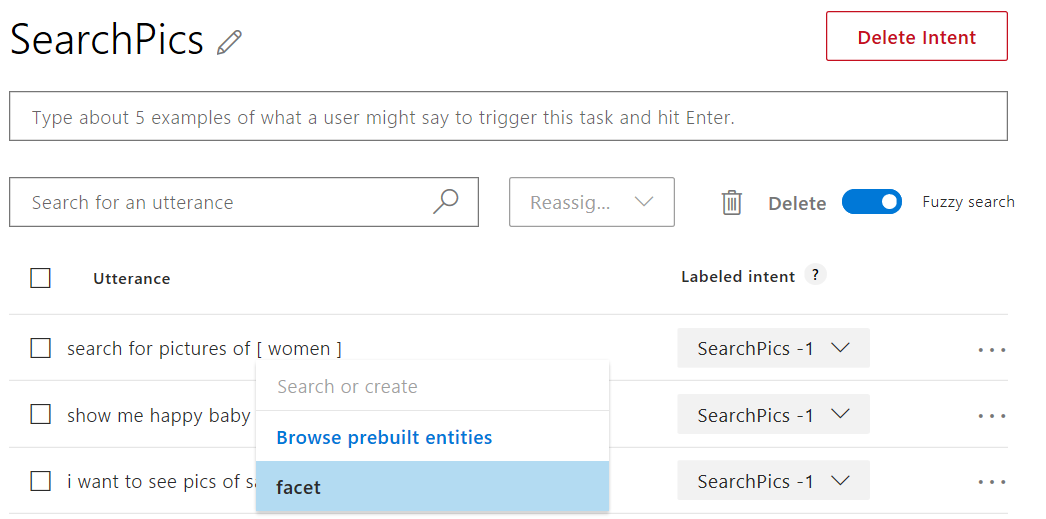
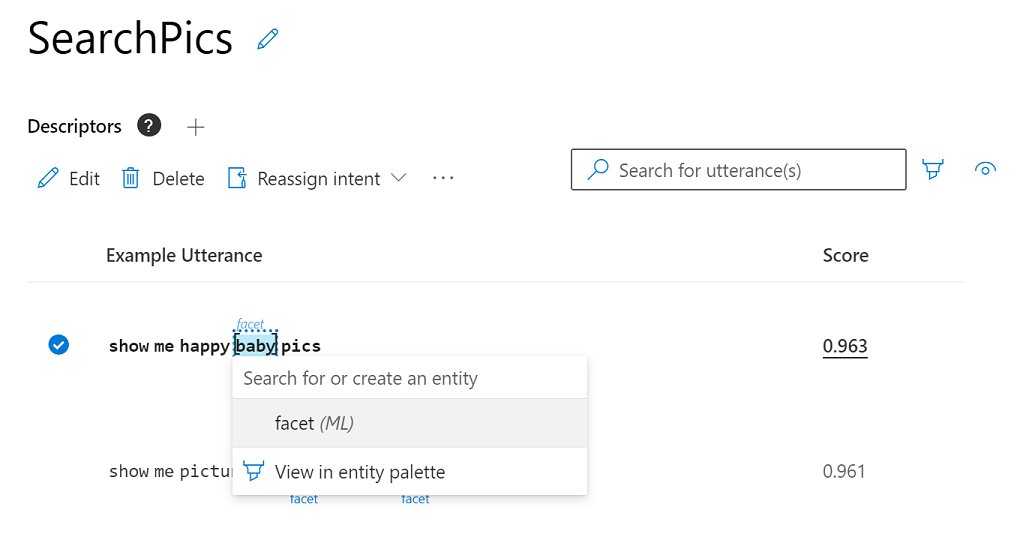
adding lab 6

diff --git a/Lab06/README.md b/Lab06/README.md
@@ -1,0 +1,214 @@
+# Lab 6: Implementing the LUIS model
+
+This hands-on lab guides you through creating a model to enhance the Natural Language Processing capabilities of your applications, using Microsoft's Language Understanding Intelligent Service (LUIS).
+
+## Introduction
+
+In this lab, you will build, train and publish a LUIS model to help your bot (which will be created in a future lab) communicate effectively with human users.
+
+> **Note** In this lab, we will only be creating the LUIS model that you will use in a future lab to build a more intelligent bot.
+
+The LUIS functionality and functionality has already been covered in the workshop; for a refresher on LUIS, [read more](https://docs.microsoft.com/en-us/azure/cognitive-services/LUIS/Home).
+
+Now that we know what LUIS is, we'll want to plan our LUIS app. We already created a basic bot ("PictureBot") that responds to messages containing certain text. We will need to create intents that trigger the different actions that our bot can do, and create entities that require different actions. For example, an intent for our PictureBot may be "OrderPic" and it triggers the bot to provide an appropriate response.
+
+For example, in the case of Search (not implemented here), our PictureBot intent may be "SearchPics" and it triggers Azure Cognitive Search service to look for photos, which requires a "facet" entity to know what to search for.  You can see more examples for planning your app [here](https://docs.microsoft.com/en-us/azure/cognitive-services/LUIS/plan-your-app).
+
+Once we've thought out our app, we are ready to [build and train it](https://docs.microsoft.com/en-us/azure/cognitive-services/LUIS/luis-get-started-create-app).
+
+As a review, these are the steps you will generally take when creating LUIS applications:
+
+  1. [Add intents](https://docs.microsoft.com/en-us/azure/cognitive-services/LUIS/add-intents)
+  2. [Add utterances](https://docs.microsoft.com/en-us/azure/cognitive-services/LUIS/add-example-utterances)
+  3. [Add entities](https://docs.microsoft.com/en-us/azure/cognitive-services/LUIS/add-entities)
+  4. [Improve performance using phrase lists](https://docs.microsoft.com/en-us/azure/cognitive-services/LUIS/add-features) and [patterns](https://docs.microsoft.com/en-us/azure/cognitive-services/LUIS/luis-how-to-model-intent-pattern)
+  5. [Train and test](https://docs.microsoft.com/en-us/azure/cognitive-services/LUIS/train-test)
+  6. [Review endpoint utterances](https://docs.microsoft.com/en-us/azure/cognitive-services/LUIS/label-suggested-utterances)
+  7. [Publish](https://docs.microsoft.com/en-us/azure/cognitive-services/LUIS/publishapp)
+
+## Lab 6.0: Creating the LUIS service in the portal (optional)
+
+Creating a LUIS service in the portal is optional, as LUIS provides you with a "starter key" that you can use for the labs. However, if you want to see how to create a free or paid service in the portal, you can follow the steps below.  
+
+> **Note** If you ran the pre-req ARM Template, you will already have a cognitive services resource that included the Language Understanding APIs.
+
+1. Open the [Azure Portal](https://portal.azure.com)
+
+1. Select **Create a resource**
+
+1. Enter **Language Understanding** in the search box and choose **Language Understanding**
+
+1. Select **Create**
+
+1. For the name, type **{YOURINIT}luisbot**
+
+1. Select your subscription and and location similar to your resource group
+
+1. For the pricing tier, select **F0**
+
+1. Select your resources group
+
+1. For the runtime location, select a location similar to your resource group
+
+1. For the runtime pricing, select **F0**
+
+1. Select **Create**
+
+**Note** The Luis AI web site does not allow you to control or publish your Azure based cognitive services resources.  You will need to call the APIs in order to train and publish them.
+
+## Lab 6.1: Adding intelligence to your applications with LUIS
+
+Let's look at how we can use LUIS to add some natural language capabilities. LUIS allows you to map natural language utterances (words/phrases/sentences the user might say when talking to the bot) to intents (tasks or actions the user wants to perform). For our application, we might have several intents: finding pictures, sharing pictures, and ordering prints of pictures, for example. We can give a few example utterances as ways to ask for each of these things, and LUIS will map additional new utterances to each intent based on what it has learned.
+
+> **Warning**: Though Azure services use IE as the default browser, we do not recommend it for LUIS. You should be able to use Chrome or Firefox for all of the labs. Alternatively, you can download either [Microsoft Edge](https://www.microsoft.com/en-us/download/details.aspx?id=48126) or [Google Chrome](https://www.google.com/intl/en/chrome/).
+
+1. Navigate to [https://www.luis.ai](https://www.luis.ai) (**unless you are located in Europe or Australia***). We will create a new LUIS app to support our bot.
+
+> **Note** If you created a key in a **Europe** region, you will need to create your application at [https://eu.luis.ai/](https://eu.luis.ai/). If you created a key in an **Australia** region, you will need to create your application at [https://au.luis.ai/](https://au.luis.ai/). You can read more about the LUIS publishing regions [here](https://docs.microsoft.com/en-us/azure/cognitive-services/luis/luis-reference-regions).
+
+1. Sign in using your Organization or Microsoft account. This should be the same account that you used to create the LUIS key in the previous section.
+
+1. Select **Create a LUIS app now**. You should be redirected to a list of your LUIS applications.  If prompted, select **Migrate Later**.  
+
+1. If this is your first time, you will be asked to agree with service terms of use and select your county.
+
+- On next step you need to chose recommended option and link your Azure account with LUIS.
+- Finally confirm your settings and you will be forwarded to the LUIS App page.
+
+> **Note**: Notice that there is also an "Import App" next to the "New App" button on [the current page](https://www.luis.ai/applications).  After creating your LUIS application, you have the ability to export the entire app as JSON and check it into source control.  This is a recommended best practice, so you can version your LUIS models as you version your code.  An exported LUIS app may be re-imported using that "Import App" button.  If you fall behind during the lab and want to cheat, you can select the "Import App" button and import the [LUIS model](./code/LUIS/PictureBotLuisModel.json).
+
+1. From the main page, select the **Create new app** button
+
+1. Type a name, and select **Done**.  Close the "How to create an effective LUIS app" dialog.
+
+![LUIS New App](../images//LuisNewApp.png)
+
+1. In the top navigation, select the **BUILD** link.  Notice there is one intent called "None".  Random utterances that don't map to any of your intents may be mapped to "None".
+
+![LUIS Dashboard](../images//LuisCreateIntent.png)
+
+We want our bot to be able to do the following things:
+
+- Search/find pictures
+- Share pictures on social media
+- Order prints of pictures
+- Greet the user (although this can also be done other ways, as we will see later)
+
+Let's create intents for the user requesting each of these.  
+
+1. Select the **Create new intent** button.
+
+1. Name the first intent **Greeting** and select **Done**.  
+
+1. Give several examples of things the user might say when greeting the bot, pressing "Enter" after each one.
+
+![LUIS Greeting Intent](../images//LuisGreetingIntent.png)
+
+Let's see how to create an entity.  When the user requests to search the pictures, they may specify what they are looking for.  Let's capture that in an entity.
+
+1. Select on **Entities** in the left-hand column and then select **Create new entity**.  
+
+1. Give it an entity name **facet**
+
+1. For the entity type select ["Simple"](https://docs.microsoft.com/en-us/azure/cognitive-services/LUIS/luis-concept-entity-types).  
+
+1. Select **Done**.
+
+![Add Facet Entity](../images//LuisCreateEntity.png)
+
+1. Select **Intents** in the left-hand sidebar and then click the **Create new intent** button.  
+
+1. Give it an intent name of **SearchPics** and then click **Done**.
+
+Just as we did for Greetings, let's add some sample utterances (words/phrases/sentences the user might say when talking to the bot).  People might search for pictures in many ways.  Feel free to use some of the utterances below, and add your own wording for how you would ask a bot to search for pictures.
+
+- Find outdoor pics
+- Are there pictures of a train?
+- Find pictures of food.
+- Search for photos of kids playing
+- Show me beach pics
+- Find dog photos
+- Show me pictures of men wearing glasses
+- Show me happy baby pics
+
+Once we have some utterances, we have to teach LUIS how to pick out the **search topic** as the "facet" entity. Whatever the "facet" entity picks up is what will be searched.
+
+1. Hover and click the word (or click consecutive words to select a group of words) and then select the "facet" entity.
+
+![Labeling Entity](../images//LuisFacet.png)
+
+So your utterances may become something like this when facets are labeled:
+
+![Add Facet Entity](../images//SearchPicsIntentAfter.png)
+
+>**Note** This workshop does not include Azure Cognitive Search, however, this functionality has been left in for the sake of demonstration.
+
+1. Select **Intents** in the left sidebar and add two more intents:
+
+- Name one intent **"SharePic"**.  This might be identified by utterances like:
+
+  - Share this pic
+  - Can you tweet that?
+  - Post to Twitter
+
+- Create another intent named **"OrderPic"**.  This could be communicated with utterances like:
+
+  - Print this picture
+  - I would like to order prints
+  - Can I get an 8x10 of that one
+  - Order wallets
+
+When choosing utterances, it can be helpful to use a combination of questions, commands, and "I would like to..." formats.
+
+1. Finally add some sample utterances to the "None" intent. This helps LUIS label when things are outside the scope of your application. Add things like "I'm hungry for pizza", "Search videos", etc. You should have about 10-15% of your app's utterances within the None intent.
+
+## Lab 6.2: Training the LUIS model
+
+We are now ready to train our model.
+
+1. Select **Train** in the top right bar.  This builds a model to do utterance --> intent mapping with the training data you've provided. Training is not always immediate. Sometimes, it gets queued and can take several minutes.
+
+1. Select **MANAGE** in the top bar. You'll have several options on the left side of the window (Application Information, Keys and Endpoints, Publish Settings, Versions, Collaborators). You can read more about the various publish options [here](https://docs.microsoft.com/en-us/azure/cognitive-services/LUIS/PublishApp).
+
+1. Select **Azure resources**, you can use the keys here for your LUIS integration later or simply use the keys from the Azure Portal
+
+1. In the top bar, click **Publish**. You'll have the option to publish to your "Production" or "Staging" endpoint.
+
+1. Select **Production**, and [read about the reasons for the two endpoints](https://docs.microsoft.com/en-us/azure/cognitive-services/luis/luis-concept-version).
+
+1. Finally, select **Publish**.
+
+![Publish LUIS App](../images//LuisPublish.png)
+
+Publishing creates an endpoint to call the LUIS model.  The URL will be displayed, which will be explained in a later lab.
+
+1. Select **Application Information**, copy the **Application ID**.
+
+1. Select **Azure Resources**, copy the Key and the Endpoint URL.
+
+**Note** We won't use the whole url, you will only need the **https://{region}.api.cognitive.microsoft.com** part
+
+1. Select **Test** in the top right bar. Try typing a few utterances and see the intents returned. Familiarize yourself with [interactive testing](https://docs.microsoft.com/en-us/azure/cognitive-services/LUIS/Train-Test#interactive-testing) and [reviewing endpoint utterances](https://docs.microsoft.com/en-us/azure/cognitive-services/LUIS/luis-how-to-review-endoint-utt) as you may want to do this now or in a future lab.
+
+One quick example is shown below. I have noticed that my model incorrectly assigned "send me a swimming photo" as SharePic, when it should be SearchPics. I reassigned the intent.
+
+![Test LUIS](../images//ReassignIntent.png)
+
+Now I need to retrain my app by selecting the Train button. I then tested the same utterance and compared the results between my recently trained and previously published model. Remember, you'll have to republish your model to see updates in the application that uses the model.
+
+![Reassign Intent](../images//ReassignIntentAfter.png)
+
+You can also [test your published endpoint in a browser](https://docs.microsoft.com/en-us/azure/cognitive-services/LUIS/PublishApp#test-your-published-endpoint-in-a-browser). Copy the Endpoint URL. To open this URL in your browser, set the URL parameter `&q=` to your test query. For example, append `Find pictures of dogs` to your URL, and then press Enter. The browser displays the JSON response of your HTTP endpoint.
+
+## Going further
+
+If you still have time, spend time exploring the www.luis.ai site. Select "Prebuilt domains" and see [what is already available for you](https://docs.microsoft.com/en-us/azure/cognitive-services/luis/luis-reference-prebuilt-domains). You can also review some of the [other features](https://docs.microsoft.com/en-us/azure/cognitive-services/luis/luis-concept-feature) and [patterns](https://docs.microsoft.com/en-us/azure/cognitive-services/luis/luis-concept-patterns)
+, and check out the [BotBuilder-tools](https://github.com/Microsoft/botbuilder-tools) for creating LUIS models, managing LUIS models, simulating conversations, and more. Later, you may also be interested in [another course that includes how to design LUIS schema](https://aka.ms/daaia).
+
+## Extra Credit
+
+If you wish to attempt to create a LUIS model including Azure Cognitive Search, follow the training on [LUIS models including search](https://github.com/Azure/LearnAI-Bootcamp/tree/master/lab01.5-luis).
+
+## Next Steps
+
+- [Lab 07-01: Integrate LUIS](../Lab07/README.md)

diff --git a/Lab05/README.md b/Lab05/README.md
@@ -1,0 +1,123 @@
+# Lab 5: Creating a Customized QnA Maker Bot
+
+## Introduction
+
+In this lab we will explore the QnA Maker for creating bots that connect to a pre-trained knowledge base.  Using QnAMaker, you can upload documents or point to web pages and have it pre-populate a knowledge base that can feed a simple bot for common uses such as frequently asked questions.
+
+### Time to complete: 30 min
+
+## Lab 5.2: Create a KnowledgeBase
+
+1. Open the [QnA Maker site](https://qnamaker.ai)
+
+1. In the top right, select **Sign in**.  Login using the Azure credentials for your new QnA Maker resource
+
+1. In the top navigation area, select **Create a knowledge base**
+
+1. From **STEP 1** click on the button **create new QnA service** you will be redirected to the azure portal
+
+1. Type a name
+
+1. Select the **S0** tier for the resource pricing tier.  We aren't using the free tier because we will upload files that are larger than 1MB later.
+
+1. Select your resource group
+
+1. For the search pricing tier, select the **F** tier
+
+1. Enter an app name, it must be unique
+
+1. Select **Create**.  This will create the following resources in your resource group:
+
+- App Service Plan
+- App Service
+- Application Insights
+- Search Service
+- Cognitive Service instance of type QnAMaker
+
+1. You have to wait until provisioning finished. Return back to the QnA portal to your KB.
+
+1. On **STEP 2** click on "Refresh" button.
+
+1. Select your Azure AD and Subscription tied to your QnA Maker resource, then select your newly created QnA Maker resource and your target language.
+
+
+1. On **STEP 3**  for the name, type **Microsoft FAQs**
+
+1. For the file, select **Add file**, browse to the **code/surface-pro-4-user-guide-EN.pdf** file
+
+1. For the file, select **Add file**, browse to the **code/Manage Azure Blob Storage** file
+
+> **Note** You can find out more about the supported file types and data sources [here](https://docs.microsoft.com/en-us/azure/cognitive-services/qnamaker/concepts/data-sources-supported)
+
+1. For the **Chit-chat**, select **Witty**
+
+1. Select **Create your KB**
+
+> **NOTE** This can take a few minutes.
+
+## Lab 5.2: Publish and Test your Knowledge base
+
+1. Review the knowledge base QnA pairs, you should see ~200+ different pairs based on the two documents we fed it
+
+1. In the top menu, select **PUBLISH**.  
+
+1. On the publish page, select **Publish**.  Once the service is published, select the **Create Bot** button on the success page
+
+1. If prompted, login as the account tied to your lab resource group.
+
+1. On the bot service creation page, fix any naming errors, then select **Create**.
+
+> **Note**  Recent change in Azure requires dashes ("-") be removed from some resource names
+
+1. Once the bot resource is created, navigate to the new **Web App Bot**, then select **Test in Web Chat**
+
+1. Ask the bot any questions related to a Surface Pro 4 or managing Azure Blog Storage:
+
+- How long does it take to charge the battery?
+- What is a blob?
+
+1. Ask it some questions it doesn't know, such as:
+
+- How do I bowl a strike?
+
+## Lab 5.4: Download the Bot Source code
+
+1. Under **Bot management**, select the **Build** tab
+
+1. Select **Download Bot source code**, when prompted select **Yes**.  
+
+1. Azure will build your source code, when complete, select **Download Bot source code**, if prompted, select **Yes**
+
+1. Extract the zip file to your local computer
+
+1. Open the .sln solution file with Visual Studio 2019
+
+1. Open the **index.js** file, you will notice nothing special has been added here: 
+
+```js
+const qnaService = new QnAMaker({
+    knowledgeBaseId: process.env.QnAKnowledgebaseId,
+    endpointKey: process.env.QnAAuthKey,
+    host: endpointHostName
+});
+// Create the main dialog.
+const dialog = new RootDialog(qnaService);
+// Create the bot's main handler.
+const bot = new QnABot(conversationState, userState, dialog);
+```
+
+1. Open the **Bots/qnaBot.js** file and review the code that was generated for this file
+
+[!NOTE] The previous steps for reviewing the generated code are correct for the solution that was downloaded during the authoring of this lab.  The solution files may change from time to time based on updates to the frameworks and SDKs so the solution files may differ.  The key aspect here is just have you review the code that is automatically generated from the tool.
+
+## Going Further
+
+What would you do to integrate the QnAMaker code into your picture bot?
+
+## Resources
+
+- [What is the QnA Maker service?](https://docs.microsoft.com/en-us/azure/cognitive-services/qnamaker/overview/overview)
+
+## Next Steps
+
+- [Lab 06-01: Implement LUIS](../Lab06/README.md)

diff --git a/README.md b/README.md
@@ -44,7 +44,7 @@ In the previous lab, we built a chat bot and modified the downloaded code to sui
 
 QnA Maker provides a conversational question and answer layer over your data. This allows your bot to send QnA Maker a question and receive an answer without you needing to parse and interpret the intent of their question.
 
-**cumming soon**
+- [hands-on](/Lab05/README.md)
 
 ### Time to complete: 30 min
 
@@ -53,9 +53,9 @@ QnA Maker provides a conversational question and answer layer over your data. Th
 
 We're going to build an end-to-end scenario that allows you to pull in your own pictures, use Cognitive Services to find objects and people in the images, and obtain a description and tags. We'll later build a Bot Framework bot using LUIS to allow easy, targeted querying.
 
-**cumming soon**
+- [hands-on](/Lab06/README.md)
 
-### Time to complete: 45 min
+### Time to complete: 30 min
 
 
 ## Lab 7: Integrate LUIS into Bot Dialogs

diff --git a/Lab03/README.md b/Lab03/README.md
@@ -12,6 +12,8 @@ Be mindful of the following AI Ethics principles when designing and implementing
 
 We encourage you to [Read more](https://ai-ethics.azurewebsites.net/) about the Ethical considerations when building intelligent apps.
 
+### Time to complete: 75 min
+
 ## Lab 3.1: Setting up for bot development
 
 We will be developing a bot using the latest Node.js SDK. To get started, we'll need to download the Bot Framework Emulator, and we'll need to create a Web App Bot and get the source code.

diff --git a/Lab04/README.md b/Lab04/README.md
@@ -7,6 +7,8 @@ This workshop demonstrates how you can perform logging using Microsoft Bot Frame
 - Understand how to intercept and log message activities between bots and users
 - Log utterances to file storage
 
+### Time to complete: 45 min
+
 ## Prerequisites
 
 This lab starts from the assumption that you have built and published the bot from [Lab 3](../Lab03/README.md).
